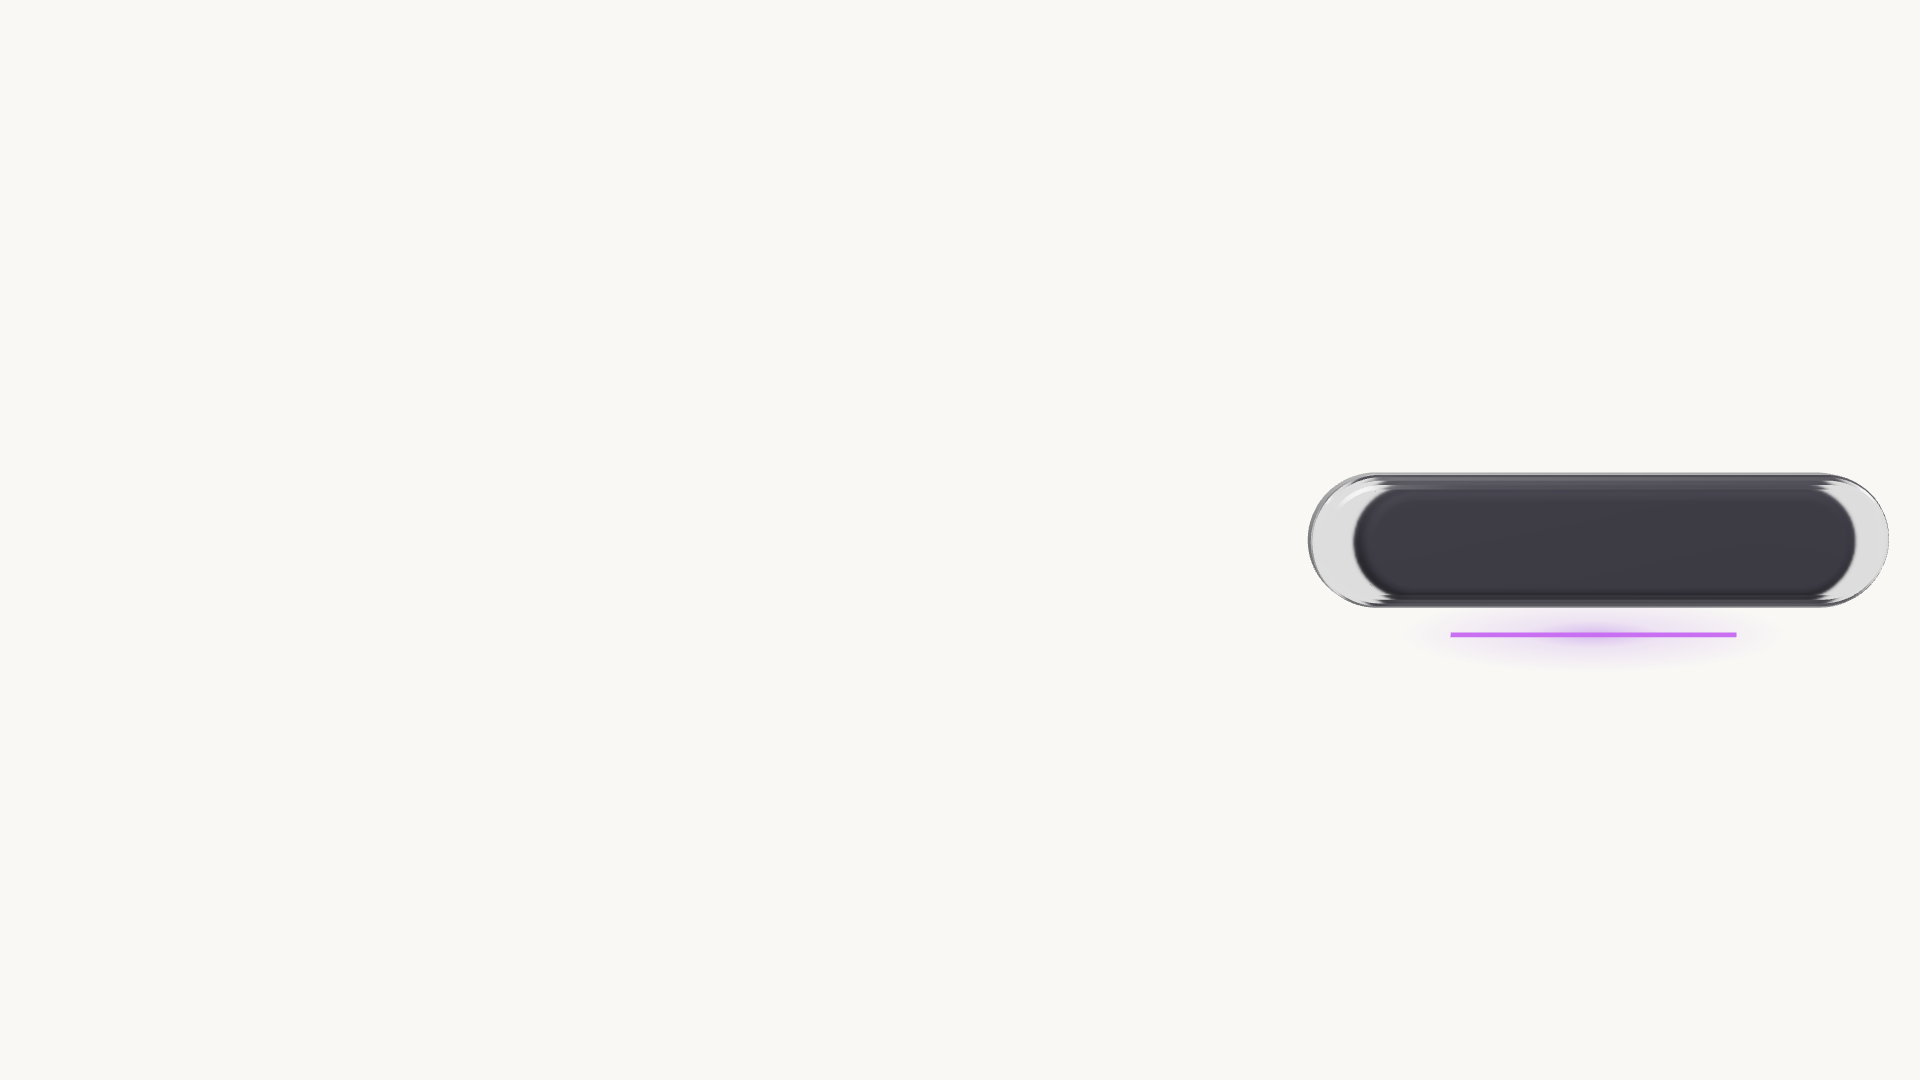
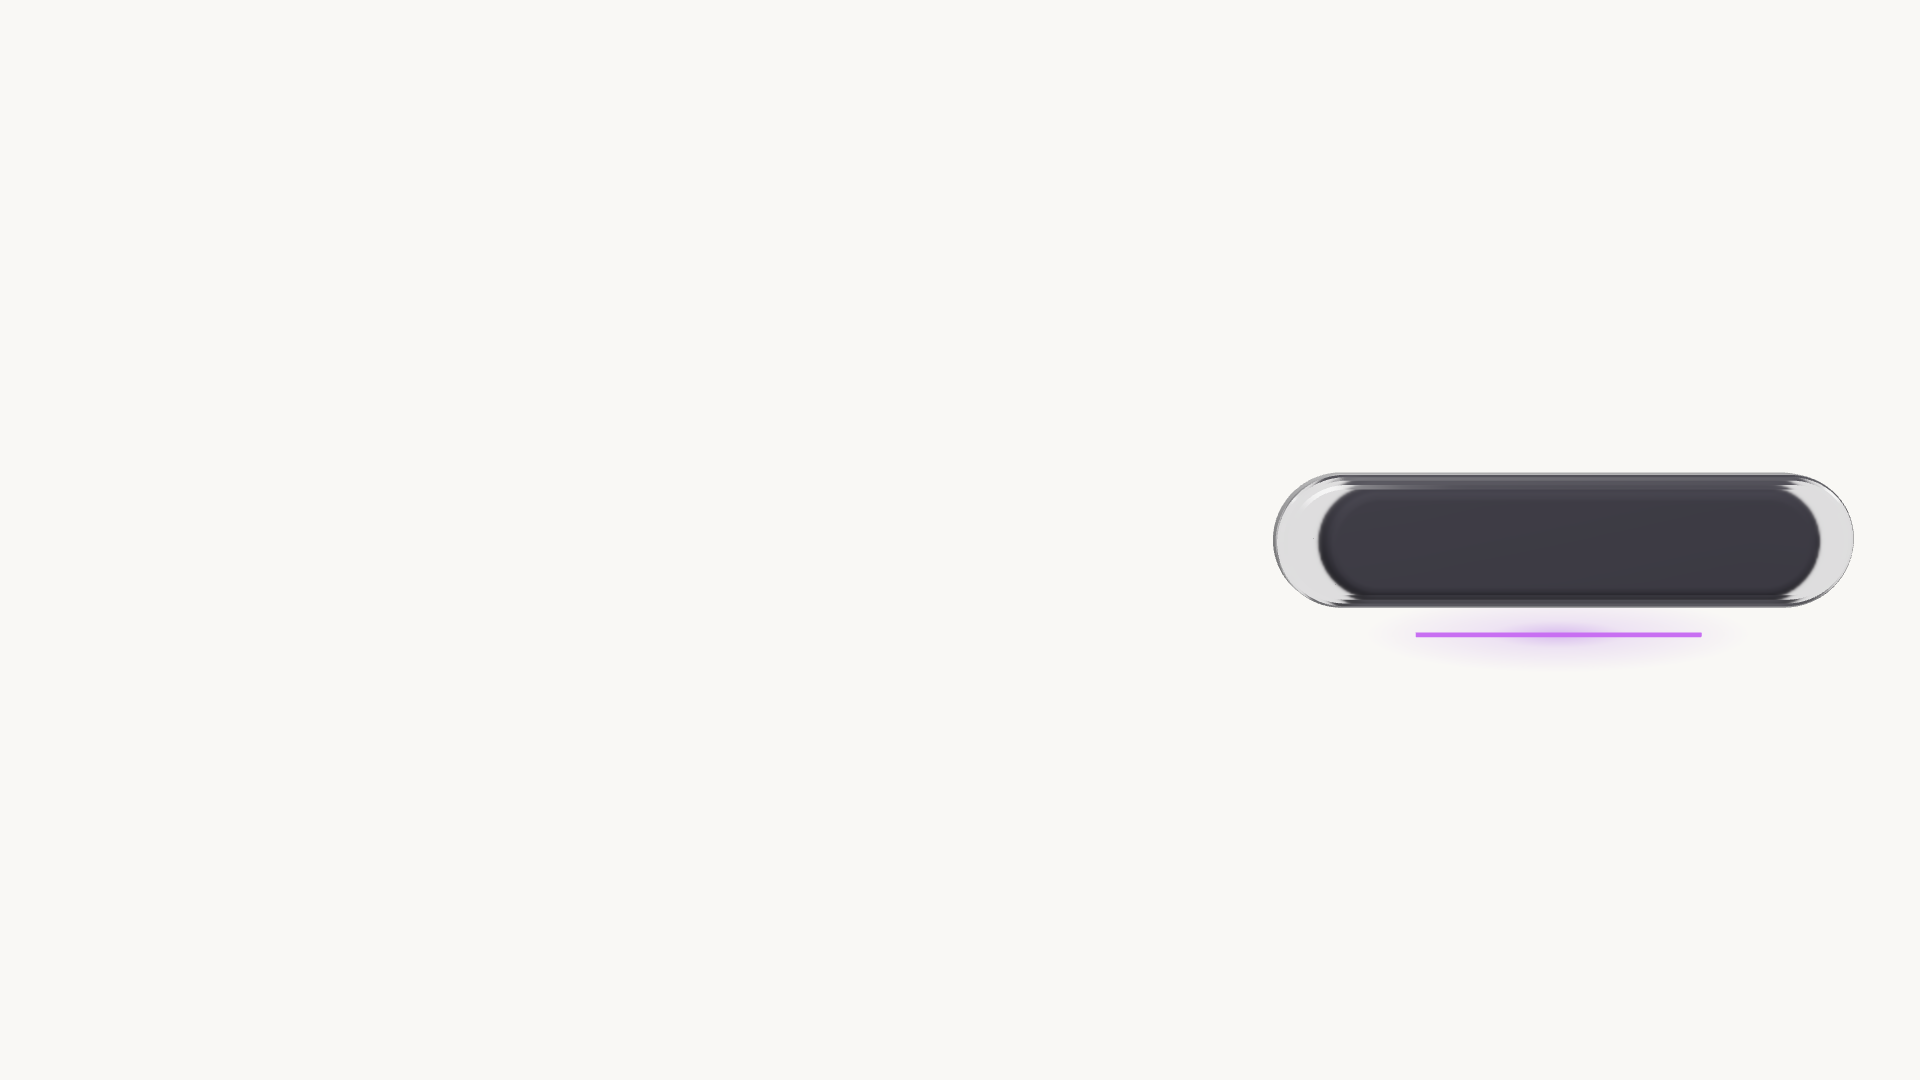
fix(stage): hero's wide rest shows the whole frame width under 16:9 and clears the 32 px gutter, gliding into frame 0's cover crop, wide from lg

Changed region(s): [[0.9062, 0.4278, 1.0, 0.5806], [0.6562, 0.4278, 0.7188, 0.5806], [0.875, 0.5806, 0.9062, 0.6111]]

diff --git a/app/components/stage/poster.vue b/app/components/stage/poster.vue
@@ -3,15 +3,15 @@ import type { StageTheme } from "~/utils/stage/theme";
 
 type PosterName = "hero" | "lost" | "line" | "fence";
 
-const { name, theme, eager = false } = defineProps<{ name: PosterName; theme: StageTheme; eager?: boolean }>();
+const { name, theme, eager = false, showWidth = false } = defineProps<{ name: PosterName; theme: StageTheme; eager?: boolean; showWidth?: boolean }>();
 
 type Size = { width: number; height: number };
 
-// Must match the size and scale each poster is rendered at in public/stage, or the img reserves the wrong box.
-const RENDERED: Record<PosterName, Size & { mobile?: Size }> = {
-  hero: { width: 1920, height: 1080, mobile: { width: 1920, height: 1080 } },
+// Must match each poster's rendered size, or the img reserves the wrong box; below is that scene's own phone breakpoint.
+const RENDERED: Record<PosterName, Size & { mobile?: Size & { below: number } }> = {
+  hero: { width: 1920, height: 1080, mobile: { width: 1920, height: 1080, below: 1024 } },
   lost: { width: 1920, height: 1080 },
-  line: { width: 1920, height: 1080, mobile: { width: 800, height: 1000 } },
+  line: { width: 1920, height: 1080, mobile: { width: 800, height: 1000, below: 768 } },
   fence: { width: 1920, height: 1080 },
 };
 
@@ -23,13 +23,14 @@ const size = computed(() => RENDERED[name]);
     <picture :key="theme" class="picture">
       <source
         v-if="size.mobile"
-        media="(max-width: 767px)"
+        :media="`(max-width: ${size.mobile.below - 1}px)`"
         :srcset="`/stage/${name}-mobile-${theme}.webp`"
         :width="size.mobile.width"
         :height="size.mobile.height"
       />
       <img
         class="image"
+        :class="{ whole: showWidth }"
         :src="`/stage/${name}-${theme}.webp`"
         :width="size.width"
         :height="size.height"
@@ -53,5 +54,12 @@ const size = computed(() => RENDERED[name]);
 
 .image {
   @apply size-full object-cover;
+}
+
+/* Matches the live canvas, which shows the whole frame width under 16:9 from lg up; the phone poster keeps its cover crop. */
+@media (min-width: 1024px) and (max-aspect-ratio: 16/9) {
+  .whole {
+    @apply object-contain;
+  }
 }
 </style>

diff --git a/app/utils/stage/island.ts b/app/utils/stage/island.ts
@@ -208,6 +208,7 @@ export type Stage = {
   setPalette: (next: Palette, instant?: boolean) => Promise<StageTheme>;
   advance: (dt: number) => boolean;
   resize: (width: number, height: number) => void;
+  showWidth: (amount: number) => void;
   warm: () => Promise<void>;
   render: () => void;
   dispose: () => void;
@@ -312,15 +313,31 @@ const assemble = ({ canvas, camera: preset, film, mobile, frame = 16 / 9, fog: d
     return !!lerp;
   };
 
+  let size = { width: 0, height: 0 };
+  let widthShown = 0;
+
   // Cover framing: past the reference aspect the vertical fov narrows, so the canvas crops like an object-fit: cover poster.
+  const project = (): void => {
+    const aspect = size.width / size.height;
+    const half = Math.tan((fov * Math.PI) / 360);
+    camera.aspect = aspect;
+    if (aspect > frame) camera.fov = (Math.atan((half * frame) / aspect) * 360) / Math.PI;
+    // A cover crop would cut the hero's right-third pill under 16:9, so its rest widens to the frame's width like its contained poster.
+    else camera.fov = aspect < frame && widthShown ? (Math.atan(half * (1 + widthShown * (frame / aspect - 1))) * 360) / Math.PI : fov;
+    camera.updateProjectionMatrix();
+  };
+
   const resize = (width: number, height: number): void => {
     if (!width || !height) return;
     renderer.setSize(width, height, false);
-    const aspect = width / height;
-    const half = Math.tan((fov * Math.PI) / 360);
-    camera.aspect = aspect;
-    camera.fov = aspect > frame ? (Math.atan((half * frame) / aspect) * 360) / Math.PI : fov;
-    camera.updateProjectionMatrix();
+    size = { width, height };
+    project();
+  };
+
+  const showWidth = (amount: number): void => {
+    if (amount === widthShown) return;
+    widthShown = amount;
+    if (size.width) project();
   };
 
   // Without the parallel-compile extension compileAsync logs a THREE warning, and a plain compile still links off the main thread.
@@ -362,6 +379,7 @@ const assemble = ({ canvas, camera: preset, film, mobile, frame = 16 / 9, fog: d
     setPalette,
     advance,
     resize,
+    showWidth,
     warm,
     render,
     dispose,

diff --git a/app/components/stage/hero.vue b/app/components/stage/hero.vue
@@ -38,7 +38,7 @@ const setup: SceneSetup = async ({ canvas: surface, film, mobile }) => {
 
   const hero = STAGE_CAMERA.hero;
   const rest = restAt(hero, HERO_REST.wide);
-  const wide = matchMedia("(min-width: 768px)");
+  const wide = matchMedia("(min-width: 1024px)");
   const fine = matchMedia("(hover: hover) and (pointer: fine)");
 
   // MOTION_SPRING goes through animejs's deprecated createSpring, which warns on every call; these are its gentle and snappy values.
@@ -103,6 +103,8 @@ const setup: SceneSetup = async ({ canvas: surface, film, mobile }) => {
     const lerping = stage.advance(dt);
     if (follow) track(ms);
     const { position, target } = pose();
+    // The rest shows the whole frame width like its poster, then glides into the cover crop the sequence's frame 0 is drawn at.
+    stage.showWidth(!lost && wide.matches ? 1 - sineInOut(clamp01(progress)) : 0);
     const reforming = !lost && !wide.matches && progress >= RIDE.until;
     const shown = reforming ? MOTION_EASE.out(window01(progress, RIDE.from, RIDE.to - RIDE.from)) : 1;
     // Breath and tilt fade out at the end of the glide so the handoff lands on the sequence's still frame 0.
@@ -180,7 +182,7 @@ defineExpose({ ...seekable, restMs: REST_MS });
 
 <template>
   <div ref="root" class="hero" data-scene="hero" :data-state="state" :data-theme-applied="theme" :data-lost="lost">
-    <StagePoster v-if="mode === 'live'" :name="lost ? 'lost' : 'hero'" :theme="theme" eager />
+    <StagePoster v-if="mode === 'live'" :name="lost ? 'lost' : 'hero'" :theme="theme" :show-width="!lost" eager />
     <canvas ref="canvas" class="canvas" />
   </div>
 </template>

diff --git a/app/utils/stage/camera.ts b/app/utils/stage/camera.ts
@@ -33,8 +33,8 @@ export const restAt = (hero: CameraPreset, { distance, right, up }: { distance: 
   return { fov: hero.fov, position: [target[0], target[1] + distance * slope, distance], target };
 };
 
-// Fixed rather than measured from the layout, so one poster matches the first frame on every phone under cover framing.
-export const HERO_REST = { wide: { distance: 9, right: 16 / 27, up: 0 }, narrow: { distance: 12, right: 0, up: 0.257 } } as const;
+// Fixed rather than measured from the layout, so one poster per breakpoint matches the first frame; wide clears the 32 px gutter from 1024 px up.
+export const HERO_REST = { wide: { distance: 9, right: 0.56, up: 0 }, narrow: { distance: 12, right: 0, up: 0.257 } } as const;
 
 const phoneRest = restAt(STAGE_CAMERA.hero, HERO_REST.narrow);
 // The glass's front edge and the halo's foot are the island's outermost geometry, so the hero copy can clear it before three loads.
@@ -42,3 +42,7 @@ export const PHONE_REST_BAND = {
   top: hydrationSafe(toScreen(phoneRest, [0, ISLAND.height / 2, ISLAND.depth / 2]).top),
   bottom: hydrationSafe(toScreen(phoneRest, [0, -ISLAND.height / 2 - ISLAND.lineGap - HALO_HEIGHT / 2, 0]).top),
 } as const;
+
+const wideRest = restAt(STAGE_CAMERA.hero, HERO_REST.wide);
+// One share of the hero's width holds at every wide aspect, because the wide rest always shows the frame's whole width.
+export const WIDE_REST_LEFT = hydrationSafe(0.5 + (toScreen(wideRest, [-ISLAND.width / 2, 0, 0]).side * 9) / 16);
